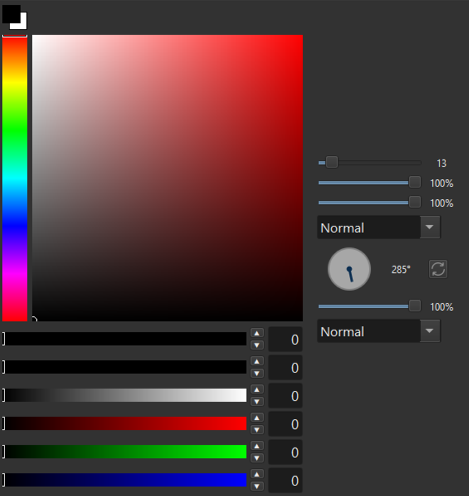
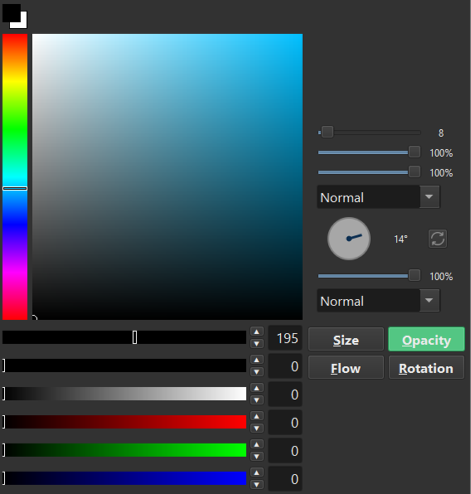
update

diff --git a/CLAUDE.md b/CLAUDE.md
@@ -39,10 +39,10 @@ There are no tests, no linter config, and no package manager. The `.venv` at the
 |--------|---------------|
 | [quick_access_manager.py](quick_access_manager/quick_access_manager.py) | "Quick Brush Sets" docker — tab/grid/brush-preset management |
 | [shortcut_manager.py](quick_access_manager/shortcut_manager.py) | "Quick Actions" docker — tab/grid/Krita-action button management |
-| [brush_adjust/](quick_access_manager/brush_adjust/) | "Quick Brush Adjustments" docker — sliders, history, temp-action keys, floating widgets; also home to `controls_builder.py` and `popup_controls_widget.py`, shared with the color selector popup |
+| [brush_adjust/](quick_access_manager/brush_adjust/) | "Quick Brush Adjustments" docker — sliders, history, temp-action keys, floating widgets; also home to `controls_builder.py`, `popup_controls_widget.py`, and `widgets/brush_toggle_widget.py`, all shared with the color selector popup |
 | [gesture/](quick_access_manager/gesture/) | Application-level key+mouse gesture detection and execution |
 | [popup/](quick_access_manager/popup/) | Frameless popup windows: `BrushSetsPopup`, `ActionsPopup`, `PresetSwitchManager` |
-| [color_selector/](quick_access_manager/color_selector/) | HueSVC docker and popup — the popup also embeds `BrushLayerControlsWidget` from `brush_adjust/` as a right-side panel |
+| [color_selector/](quick_access_manager/color_selector/) | HueSVC docker and popup — the popup also embeds `BrushLayerControlsWidget` and `BrushToggleWidget` from `brush_adjust/` as right-side panels |
 | [widgets/](quick_access_manager/widgets/) | Shared widget components: `DraggableBrushButton`, `DraggableGridContainer`, `SingleShortcutGridWidget`, `ShortcutPopup` |
 | [dialogs/](quick_access_manager/dialogs/) | Settings dialogs and per-button config dialogs |
 | [utils/](quick_access_manager/utils/) | `data_manager.py` (JSON load/save), `config_utils.py` (path resolution + cached config), `action_manager.py` (Krita action discovery) |
@@ -96,6 +96,10 @@ Old single-tab format (`{"grids": [...]}`) is automatically migrated and backed 
 - `BrushLayerControlsWidget` ([brush_adjust/popup_controls_widget.py](quick_access_manager/brush_adjust/popup_controls_widget.py)) — embedded as the right-side panel of the color selector popup ([color_selector/color_selector_popup.py](quick_access_manager/color_selector/color_selector_popup.py)) — uses `build_popup_controls_layout()` (a simple vertical stack) and mixes in only `BrushMonitorMixin`/`LayerMonitorMixin` (no history widgets, docker toggle buttons, or global key listeners — those stay docker-only). Its `start_monitoring()`/`stop_monitoring()` are driven by the popup's `showEvent`/`hideEvent` so polling pauses while hidden.
 
 The popup panel is sized to exactly 1/3 of the popup's total width (`color_selector_controls_panel_width` config adds to that total) and can be hidden entirely via `color_selector_controls_panel_enabled` (both in `popup.json`, editable from Settings → Popup tab).
+
+### Brush pressure-toggle panel (preset XML editing)
+
+[brush_adjust/widgets/brush_toggle_widget.py](quick_access_manager/brush_adjust/widgets/brush_toggle_widget.py) provides `BrushToggleWidget`, embedded below `BrushLayerControlsWidget` in the color selector popup's right panel (same `QVBoxLayout`, controlled independently via `color_selector_toggle_panel_enabled` in `popup.json`, default off). Unlike every other control in this plugin — which reads/writes brush state through `view.brushSize()`/`view.paintingOpacity()`/etc. — this widget edits the active preset's XML directly: `Preset(view.currentBrushPreset()).toXML()` → parse with `xml.etree.ElementTree` → flip the target `<param name="...">` element's text between `"true"`/`"false"` → `preset.fromXML(...)`. This is the same technique the sibling `CompactBrushToggler` plugin uses (see its CLAUDE.md `### Preset XML manipulation`), including the workaround that strips a malformed `PatternMD5` CDATA block before parsing. It toggles 4 properties (`PressureSize`, `OpacityUseCurve`, `FlowUseCurve`, `PressureRotation`); `PressureSize`/`PressureRotation` each pair with a `SizeUseCurve`/`RotationUseCurve` sub-param that must be set alongside the primary one. `refresh_from_current_brush()` re-reads state on construction and on every popup `showEvent`, so switching brushes between opens doesn't leave stale button states.
 
 ### PyQt compatibility
 

diff --git a/CHANGELOG.md b/CHANGELOG.md
@@ -3,6 +3,15 @@ All notable changes to this project will be documented in this file.
 
 The format is based on [Keep a Changelog](https://keepachangelog.com/en/1.0.0/).
 
+## 2026-07-07
+### Added
+- **Brush pressure-toggle panel** (`brush_adjust/widgets/brush_toggle_widget.py`): new `BrushToggleWidget`, embedded below the brush/layer controls in the color selector popup's right panel — 4 bold buttons (Size/Opacity/Flow/Rotation) that toggle pen-pressure sensitivity on the active brush preset, turning green while enabled
+  - Edits the preset XML directly (`Preset(view.currentBrushPreset()).toXML()` → `xml.etree.ElementTree` → flip the target `<param>` text between `"true"`/`"false"` → `preset.fromXML(...)`), the same technique the sibling CompactBrushToggler plugin uses, including its malformed-`PatternMD5` CDATA workaround
+  - Toggles `PressureSize`, `OpacityUseCurve`, `FlowUseCurve`, `PressureRotation`; `PressureSize`/`PressureRotation` each also update their paired `SizeUseCurve`/`RotationUseCurve` sub-param
+  - `refresh_from_current_brush()` re-syncs button states on construction and on every popup `showEvent`, so switching brushes between opens doesn't leave stale states
+  - Font size now pulled from `get_font_size()` (`config/quick_adjust_docker_loader.py`), matching the rest of the Quick Adjust controls
+- **Independent panel visibility settings** (`popup_tab.py`, `popup_loader.py`): the old single "Show Brush/Layer Controls Panel" checkbox is now two independent settings — `color_selector_controls_panel_enabled` (sliders/dropdowns panel, default **on**) and `color_selector_toggle_panel_enabled` (new pressure-toggle panel, default **off**) — each shown/hidden and sized on its own in `color_selector_popup.py`'s `showEvent`
+
 ## 2026-07-05
 ### Added
 - **HueSVC / BrushLayer Control Popup**: the color selector popup (`color_selector/color_selector_popup.py`) now embeds a brush/layer adjustment panel on its right side, so brush size/opacity/flow/blend mode/rotation and layer opacity/blend mode can be adjusted without opening the Quick Brush Adjustments docker

diff --git a/README.md b/README.md
@@ -407,14 +407,17 @@ See [HueSVC / BrushLayer Control Popup](#huesvc--brushlayer-control-popup) below
 ## HueSVC / BrushLayer Control Popup
 ![alt text](quick_access_manager/image/huesvc_popup.png)
 
-The HueSVC popup (see above) also bundles the sliders and dropdowns from the [Quick Brush Adjustments Docker](#quick-brush-adjustments-docker) into a single panel on the right side.
+The HueSVC popup (see above) also bundles the sliders and dropdowns from the [Quick Brush Adjustments Docker](#quick-brush-adjustments-docker) into a panel on the right side, plus an optional brush pressure-toggle panel below it.
 
+**Right panel (top to bottom):**
+- **Brush/Layer Controls** — the same size/opacity/flow/blend mode/rotation/reset/layer opacity/layer blend mode controls as the Quick Adjust docker
+- **Brush Toggle Controls** — 4 buttons toggling pen-pressure sensitivity on the current brush preset: **Size**, **Opacity**, **Flow**, **Rotation**. States refresh automatically every time the popup opens, so switching brushes never leaves stale toggle states.
 
-**Notes:**
-- Any slider/dropdown disabled in the Quick Adjust docker settings (Settings → Quick Adjust tab) is also hidden here, so both stay in sync.
 
 **Configuration** (Settings → Popup tab, under *[Color Selector Popup]*):
-- **Show Brush/Layer Controls Panel** — uncheck to hide the panel entirely and shrink the popup back down to just the color selector
+- **Show Brush/Layer Controls Panel** — uncheck to hide the sliders/dropdowns panel
+- **Show Brush Toggle Controls Panel** — check to show the 4 pressure-toggle buttons (off by default)
+- Hiding both panels shrinks the popup back down to just the color selector
 
 
 ## Config Files Location
